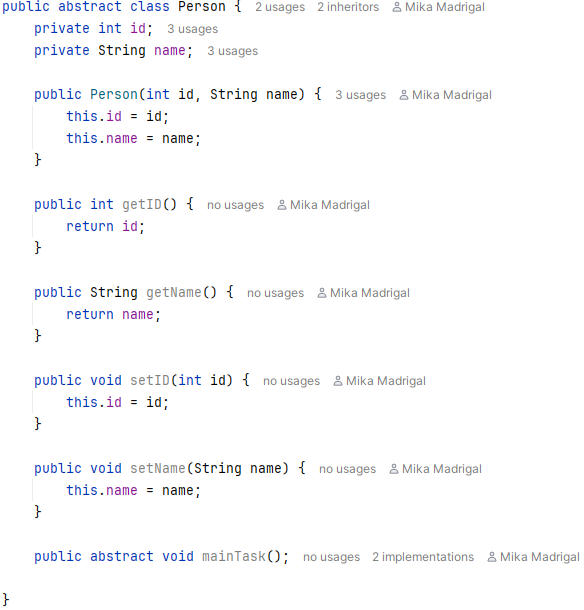
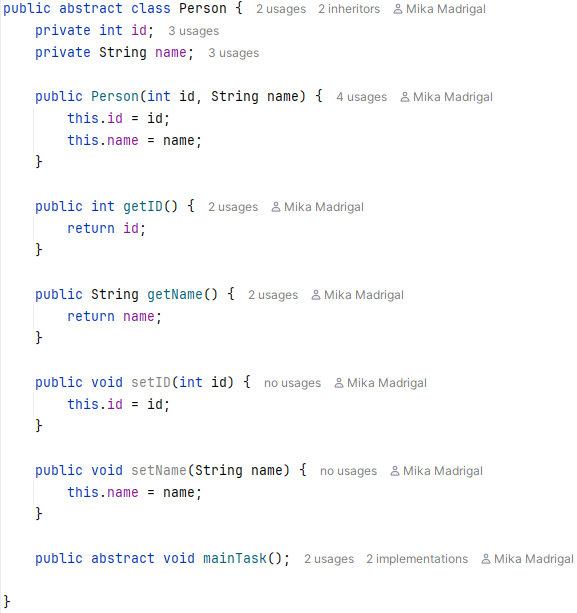
Added changes in markdown file for Abstraction

diff --git a/src/main/java/org/example/model/Instructor.java b/src/main/java/org/example/model/Instructor.java
@@ -20,4 +20,3 @@ public class Instructor extends Person {
     }
 
 }
-

diff --git a/src/main/java/org/example/Main.java b/src/main/java/org/example/Main.java
@@ -23,3 +23,4 @@ public class Main {
 
     }
 }
+

diff --git a/Readme.md b/Readme.md
@@ -29,13 +29,13 @@
 ![Image](src/main/resources/Images/Person1.png)
 
 **Student Class**
-![Image](src/main/resources/Images/Student1.png)
+![Image](src/main/resources/Images/Student2.png)
 
 **Instructor Class**
-![Image](src/main/resources/Images/Instuctor1.png)
+![Image](src/main/resources/Images/Instructor2.png)
 
 **Main Class**
-![Image](src/main/resources/Images/Main.png)
+![Image](src/main/resources/Images/Main2.png)
 
 **Output**
-![Image](src/main/resources/Images/Output.png)
+![Image](src/main/resources/Images/Output2.png)
